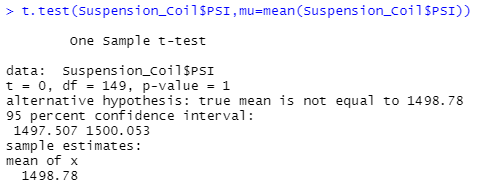
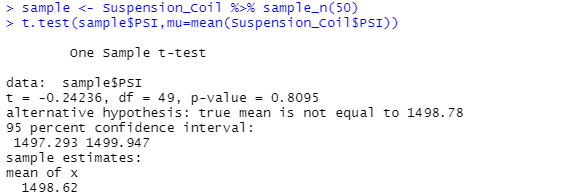
updated README

Changed region(s): [[0.0, 0.3476, 0.9529, 0.9893], [0.0, 0.0, 0.9836, 0.1604], [0.123, 0.1872, 0.4303, 0.2941]]

diff --git a/README.md b/README.md
@@ -12,13 +12,13 @@ Linear regression was performed, with all available variables in the data set: v
 - Based on their p-values, vehicle_length and ground_clearance provided non-random amounts of variance to the mpg values in the dataset.
 - The slope of the linear model is not considered to be zero, given the small p-value of 5.35e-11, which is much less than the significance level of 0.05. This gives us enough evidence to reject our null hypothesis, which means that the slope is not zero.
 - The linear model predicts the mpg of MechaCar prototypes roughly 71% effectively based on the R-squared value of 0.7149. There may also be other factors that contribute to mpg variability that were not included in the dataset.
-___
+
 Linear Regression </br>
 ![Alt Text](https://github.com/lyanneagger/MechaCar_Statistical_Analysis/blob/main/Resources/1_linear_regression.png "Linear Regression")</br>
-___
+
 Summary of Linear Regression</br>
 ![Alt Text](https://github.com/lyanneagger/MechaCar_Statistical_Analysis/blob/main/Resources/1_summary_linear_regression.png "Summary of Linear Regression")</br>
-___
+
 
 ## Summary Statistics on Suspension Coils
 
@@ -35,18 +35,26 @@ Lot Summary</br>
 
 ## T-Tests on Suspension Coils
 
-
-
 ![Alt Text](https://github.com/lyanneagger/MechaCar_Statistical_Analysis/blob/main/Resources/3_ttest1.png)</br>
+This T-Test was performed on a sample of 50 coils to determine if the PSI across all manufacturing lots is statistically different from the overall population mean of 1,500 PSI. The p-value 0.81, which is above the assumed significance level of 0.05 percent. This shows that there is not sufficient evidence to reject the null hypothesis and that the two means are statistically similar.
+
+T-Tests were also performed on each of the 3 lots to determine if the PSI for each is statistically different from the population mean of 1,500 PSI. 
 ![Alt Text](https://github.com/lyanneagger/MechaCar_Statistical_Analysis/blob/main/Resources/3_ttest_lot1.png)</br>
 ![Alt Text](https://github.com/lyanneagger/MechaCar_Statistical_Analysis/blob/main/Resources/3_ttest_lot2.png)</br>
 ![Alt Text](https://github.com/lyanneagger/MechaCar_Statistical_Analysis/blob/main/Resources/3_ttest_lot3.png)</br>
 
+
+
 ## Study Design: MechaCar vs Competition
 
-Write a short description of a statistical study that can quantify how the MechaCar performs against the competition. In your study design, think critically about what metrics would be of interest to a consumer: for a few examples, cost, city or highway fuel efficiency, horse power, maintenance cost, or safety rating.
-In your description, address the following questions:
-What metric or metrics are you going to test?
-What is the null hypothesis or alternative hypothesis?
-What statistical test would you use to test the hypothesis? And why?
-What data is needed to run the statistical test?
+One study that can be performed that can quantify how the MechaCar performs against the competition would compare key metrics. For this study, we would compare fuel efficiency, cost, and safety rating.
+
+The null hypothesis is that MechaCar performs similarly to competitors for fuel efficiency, cost, and safety rating.
+
+A two-sample T-Test can be performed to determine how the mean performance for MechaCar compares to the overall population including all competitors. This would determine if the means are statistically similar and show how MechaCar performs against competitors in each category.
+
+To run the statistical test, data would need to be provided from different competitor car models with the details of their fuel efficiency, cost, and safety ratings. The input data should be normally distributed and would provide greater insight if the dataset is large.
+
+
+
+
